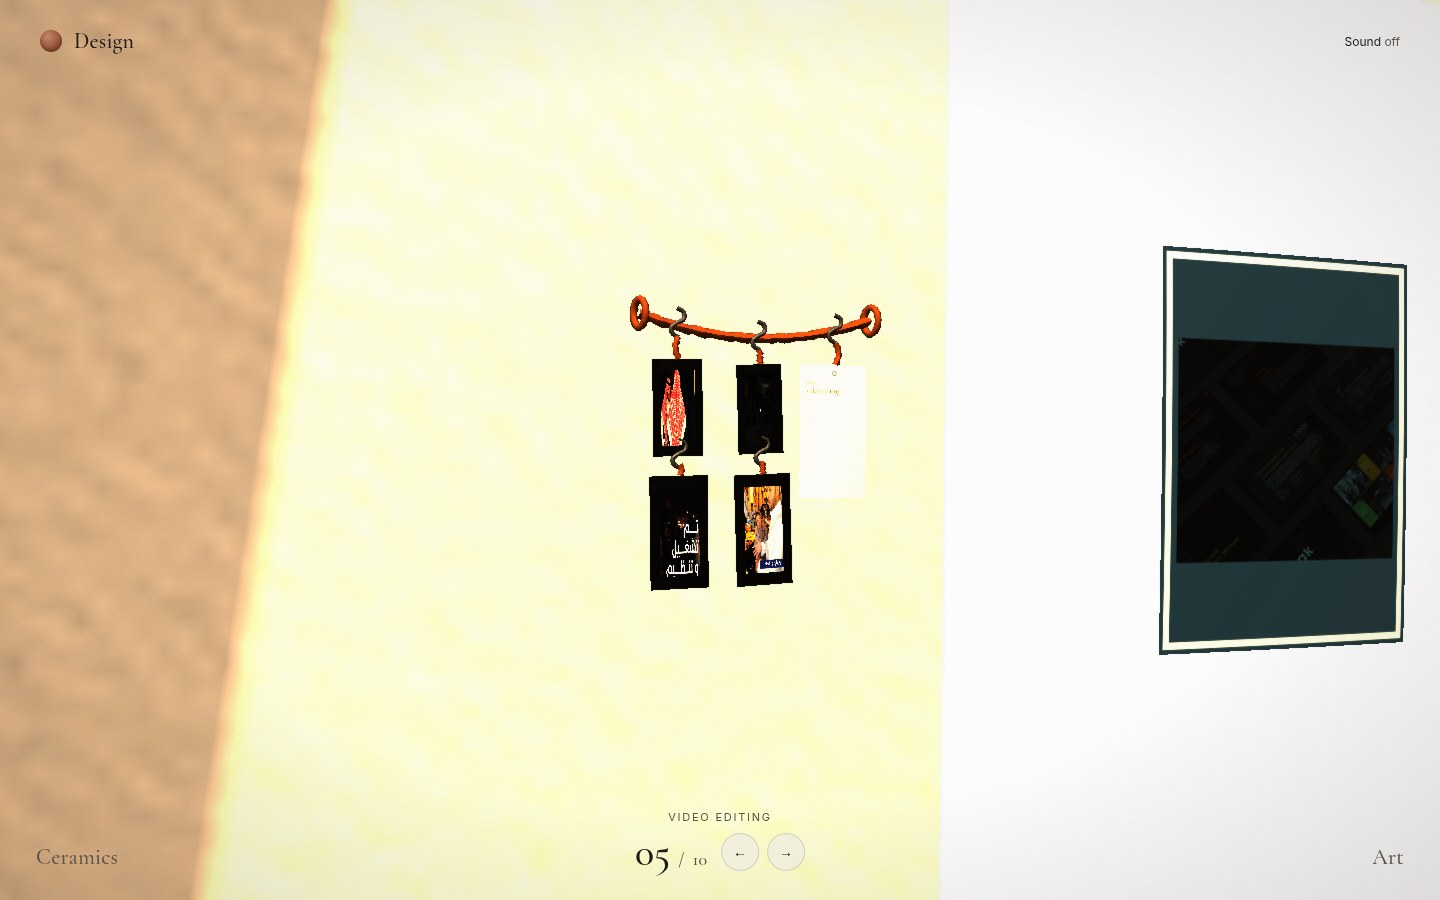
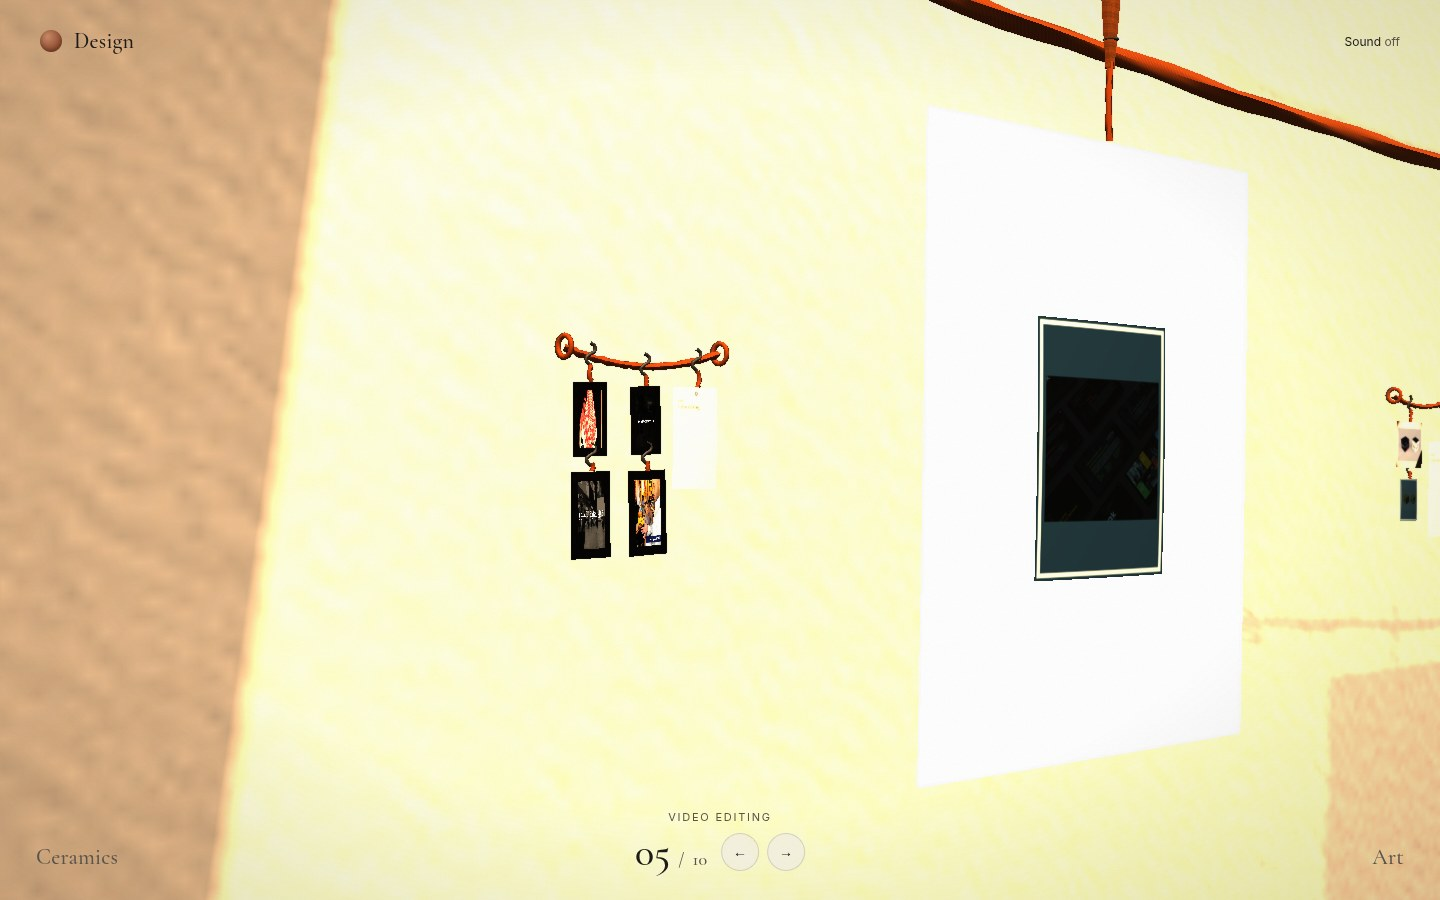
Frame each focused project so the cover and its content both stay whole.
The three-quarter camera sits far enough to one side that the cover is fully in view and the back strings sit beside it, clear of the picture.

diff --git a/js/design.js b/js/design.js
@@ -1281,6 +1281,7 @@ export async function createDesign(renderer, { reduce, projects }) {
     lines.push({
       project: entry.project,
       group: lineGroup,
+      coverSheet: heroPivot.children[heroPivot.children.length - 1],
       backGroup,
       pivots,
       videos: lineVideos,
@@ -1343,13 +1344,113 @@ export async function createDesign(renderer, { reduce, projects }) {
     );
   }
 
+  const probeCam = camera.clone();
+  const probeCorner = new THREE.Vector3();
+  const frameX = 0.92;
+  const frameY0 = -0.78;
+  const frameY1 = 0.8;
+
+  function projectBounds(box, cam) {
+    let x0 = Infinity;
+    let x1 = -Infinity;
+    let y0 = Infinity;
+    let y1 = -Infinity;
+    for (const x of [box.min.x, box.max.x]) {
+      for (const y of [box.min.y, box.max.y]) {
+        for (const z of [box.min.z, box.max.z]) {
+          probeCorner.set(x, y, z).project(cam);
+          x0 = Math.min(x0, probeCorner.x);
+          x1 = Math.max(x1, probeCorner.x);
+          y0 = Math.min(y0, probeCorner.y);
+          y1 = Math.max(y1, probeCorner.y);
+        }
+      }
+    }
+    return { x0, x1, y0, y1 };
+  }
+
+  function inFrame(rect) {
+    return rect.x0 >= -frameX && rect.x1 <= frameX && rect.y0 >= frameY0 && rect.y1 <= frameY1;
+  }
+
+  function frameOverlap(rect) {
+    const x0 = Math.max(rect.x0, -1);
+    const x1 = Math.min(rect.x1, 1);
+    const y0 = Math.max(rect.y0, -1);
+    const y1 = Math.min(rect.y1, 1);
+    if (x1 <= x0 || y1 <= y0) return 0;
+    return (x1 - x0) * (y1 - y0);
+  }
+
+  function sideGap(a, b) {
+    if (a.x1 <= b.x0) return b.x0 - a.x1;
+    if (b.x1 <= a.x0) return a.x0 - b.x1;
+    return -(Math.min(a.x1, b.x1) - Math.max(a.x0, b.x0));
+  }
+
   function focusPose(line) {
     const sign = line.home.x >= 0 ? 1 : -1;
-    const orbit = narrow ? ORBIT * 0.82 : ORBIT;
-    const dist = narrow ? FOCUS_DIST * 0.92 : FOCUS_DIST;
-    poseFov = narrow ? 32 : 27;
-    camTarget.set(line.home.x + sign * orbit, line.coverY + 0.02, FRONT_Z + dist);
-    lookTarget.set(line.home.x + sign * 0.55, line.coverY, FRONT_Z - DEPTH * 0.5);
+    const packs = lines.map((item) => ({
+      cover: new THREE.Box3().setFromObject(item.coverSheet),
+      back: item.backGroup.children.length ? new THREE.Box3().setFromObject(item.backGroup) : null,
+    }));
+    const index = lines.indexOf(line);
+    const mine = packs[index];
+    const spanMin = Math.min(mine.cover.min.y, mine.back ? mine.back.min.y : mine.cover.min.y);
+    const spanMax = Math.max(mine.cover.max.y, mine.back ? mine.back.max.y : mine.cover.max.y);
+    const midY = (spanMin + spanMax) / 2;
+    const lookZ = mine.back ? (mine.cover.max.z + mine.back.min.z) * 0.5 : mine.cover.max.z;
+    let best = null;
+    const fovs = narrow ? [34, 38] : [28, 32];
+    const dists = narrow ? [2.2, 2.8, 3.4, 4.2] : [2.6, 3.2, 3.8, 4.6];
+    const orbits = narrow ? [2.2, 2.8, 3.6] : [2.8, 3.6, 4.4];
+    const looks = [0.45, 0.9, 1.45];
+    fovs.forEach((fov) => {
+      dists.forEach((dist) => {
+        orbits.forEach((orbit) => {
+          looks.forEach((look) => {
+            probeCam.fov = fov;
+            probeCam.aspect = camera.aspect;
+            probeCam.updateProjectionMatrix();
+            probeCam.position.set(line.home.x + sign * orbit, midY, FRONT_Z + dist);
+            probeCam.lookAt(line.home.x + sign * look, midY, lookZ);
+            probeCam.updateMatrixWorld();
+            const cover = projectBounds(mine.cover, probeCam);
+            const back = mine.back ? projectBounds(mine.back, probeCam) : null;
+            if (!inFrame(cover)) return;
+            if (back && !inFrame(back)) return;
+            const gap = back ? sideGap(cover, back) : 0.2;
+            if (back && gap < 0.045) return;
+            let intrude = 0;
+            packs.forEach((other, otherIndex) => {
+              if (otherIndex === index) return;
+              intrude += frameOverlap(projectBounds(other.cover, probeCam));
+              if (other.back) intrude += frameOverlap(projectBounds(other.back, probeCam));
+            });
+            if (intrude > 0.03) return;
+            const area = (cover.x1 - cover.x0) * (cover.y1 - cover.y0);
+            const score = area + Math.min(gap, 0.22) * 0.35 - intrude;
+            if (!best || score > best.score) {
+              best = {
+                score,
+                fov,
+                cam: probeCam.position.clone(),
+                look: new THREE.Vector3(line.home.x + sign * look, midY, lookZ),
+              };
+            }
+          });
+        });
+      });
+    });
+    if (best) {
+      poseFov = best.fov;
+      camTarget.copy(best.cam);
+      lookTarget.copy(best.look);
+      return;
+    }
+    poseFov = narrow ? 34 : 30;
+    camTarget.set(line.home.x + sign * (narrow ? 3 : 3.8), line.coverY, FRONT_Z + (narrow ? 3 : 3.4));
+    lookTarget.set(line.home.x + sign * 0.9, line.coverY, FRONT_Z - DEPTH * 0.5);
   }
 
   function paintPoster(screen) {
@@ -1648,7 +1749,13 @@ export async function createDesign(renderer, { reduce, projects }) {
     gl.setRenderTarget(dofTarget);
     gl.render(scene, camera);
     camera.updateMatrixWorld();
-    focusPt.copy(lookNow).project(camera);
+    const focusLine = slot > 0 ? lines[slot - 1] : null;
+    if (focusLine) {
+      focusLine.coverSheet.getWorldPosition(focusPt);
+      focusPt.project(camera);
+    } else {
+      focusPt.copy(lookNow).project(camera);
+    }
     dofMat.uniforms.focus.value = focusPt.z * 0.5 + 0.5;
     gl.setRenderTarget(null);
     gl.render(dofScene, dofCam);

diff --git a/README.md b/README.md
@@ -21,7 +21,7 @@ The page has four scenes: About, Ceramics, Design, and Art. About is a still edi
 
 The current page name sits at the top left. The previous page name sits at the bottom left, and the next page name at the bottom right. Art’s next page is About, and About’s previous page is Art. The counter and arrows stay at the bottom centre. They step through the items of the scene you are in. Arrow keys and a horizontal swipe do the same. Space is a shortcut for the next item.
 
-On the drying line, 00 is the whole wall of covers, seen from a little further back and slightly to one side. About five jute strings run across a matte plaster wall in even rows, each with a gentle sag, a knot, and a metal screw-eye at either end. Two projects share a row. Each hangs one cover from a wooden clothes peg on a short length of twine, and the drops differ, so the row is irregular. Behind each cover, on shorter strings closer to the wall, hangs the rest of that project: the other stills, film strips, the site page, and a tracing-paper tag, some of them on S-hooks. Those strings are already there. From 00 the cover hides them. 01 and onward are her projects, in the order they appear in `DESIGN`. The camera orbits closer, to one side, in one continuous move. The gap between the two layers lets that project's content show beside and behind its cover, and the frame holds only that project. 00 moves back to the wider view. Nothing on the strings appears or disappears. A press during the move retargets it from the current pose. The pieces swing gently as the camera arrives. Her year, title, description, and any URL she published are on the tracing-paper tag. Stills are mixed prints: a white-bordered photo, a curled sheet, a small burnt-edge print, a cyanotype card, a kraft folder, or a collage of several of her photos. A project she published as video hangs its extra clips as film strips: they play muted and looped only while that project is in frame, and show a poster frame otherwise. The website project hangs as a tall paper page, a scrolling capture of the URL she published, with a Visit site slip that opens that URL in a new tab. Warm daylight comes through a window from the left, laying a soft pane pattern and contact shadows across the plaster.
+On the drying line, 00 is the whole wall of covers, seen from a little further back and slightly to one side. About five jute strings run across a matte plaster wall in even rows, each with a gentle sag, a knot, and a metal screw-eye at either end. Two projects share a row. Each hangs one cover from a wooden clothes peg on a short length of twine, and the drops differ, so the row is irregular. Behind each cover, on shorter strings closer to the wall, hangs the rest of that project: the other stills, film strips, the site page, and a tracing-paper tag, some of them on S-hooks. Those strings are already there. From 00 the cover hides them. 01 and onward are her projects, in the order they appear in `DESIGN`. The camera orbits closer, to one side, in one continuous move. The cover stays whole in the foreground, and the gap between the two layers puts that project's content beside it and behind it, in the same frame. Neither one covers the other. The frame holds only that project. 00 moves back to the wider view. Nothing on the strings appears or disappears. A press during the move retargets it from the current pose. The pieces swing gently as the camera arrives. Her year, title, description, and any URL she published are on the tracing-paper tag. Stills are mixed prints: a white-bordered photo, a curled sheet, a small burnt-edge print, a cyanotype card, a kraft folder, or a collage of several of her photos. A project she published as video hangs its extra clips as film strips: they play muted and looped only while that project is in frame, and show a poster frame otherwise. The website project hangs as a tall paper page, a scrolling capture of the URL she published, with a Visit site slip that opens that URL in a new tab. Warm daylight comes through a window from the left, laying a soft pane pattern and contact shadows across the plaster.
 
 Art starts on 00, a zoomed-out view of the whole wall, with air above the frames. 01 and onward glide the camera in one shot to a piece. A press during that glide retargets it. The description is a museum label in the 3D room: beside the piece on a wide screen, and below it on a tall one.
 
